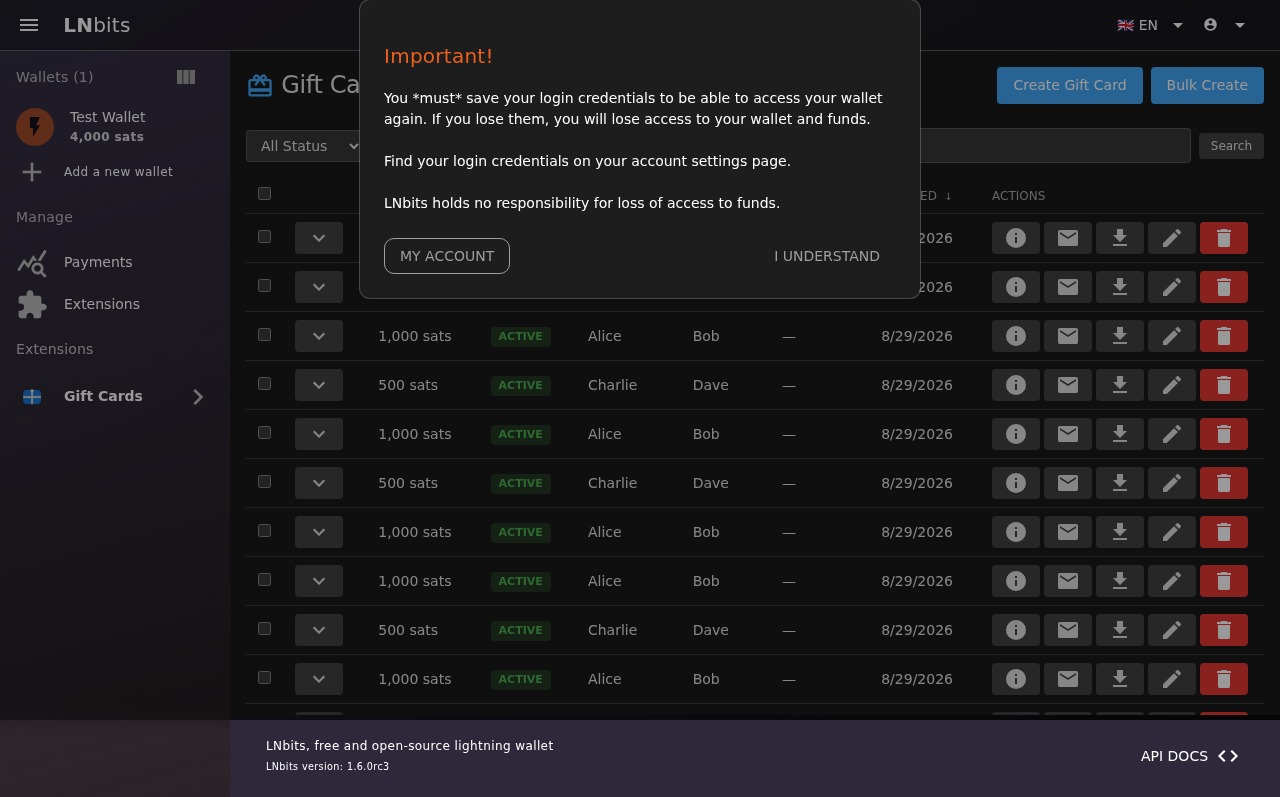
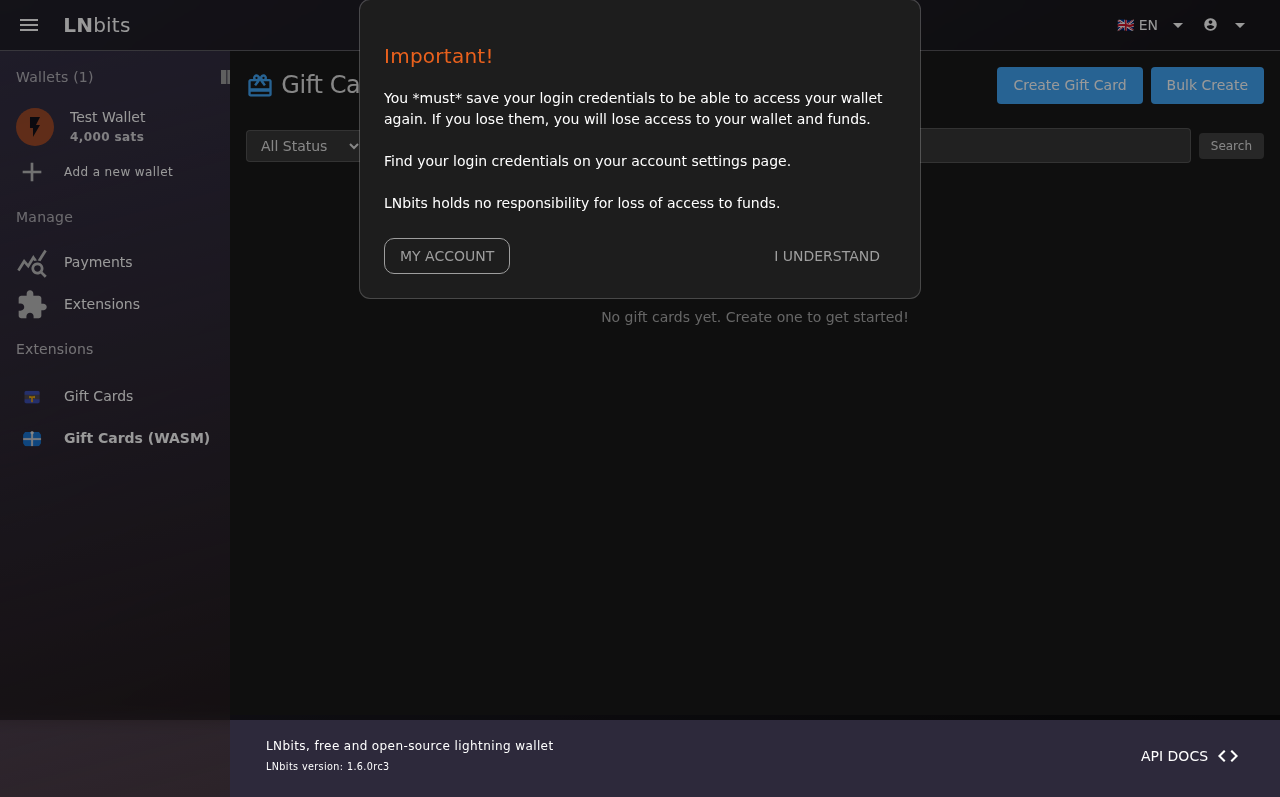
Rename WASM extension to giftcards_wasm for side-by-side comparison
Rename the WASM extension ID from "giftcards" to "giftcards_wasm" so
both the Python and WASM versions can run simultaneously in the same
LNbits instance for UI/UX and functionality comparison.

Changes:
- config.json: id → "giftcards_wasm", name → "Gift Cards (WASM)",
  ui_routes use /giftcards_wasm path
- All HTML templates: /ext-assets/giftcards/ → /ext-assets/giftcards_wasm/
- All JS files: API_BASE → /api/v1/ext/giftcards_wasm, URL paths updated
- Rust lib.rs: all /ext/giftcards/ and /api/v1/ext/giftcards/ paths
  updated to /ext/giftcards_wasm/ and /api/v1/ext/giftcards_wasm/
- Playwright tests: all URLs updated to /ext/giftcards_wasm

Also fixed Python giftcards extension:
- tasks.py: replaced removed run_interval() with asyncio.sleep loop
  to fix import error on current LNbits version

All 7 Playwright tests pass with the new extension ID.

Generated with [Devin](https://devin.ai)

diff --git a/tests/giftcards.spec.js b/tests/giftcards.spec.js
@@ -1,4 +1,4 @@
-// Playwright test for giftcards-wasm extension
+// Playwright test for giftcards_wasm extension
 const { test, expect } = require('@playwright/test');
 const fs = require('fs');
 const path = require('path');
@@ -54,12 +54,12 @@ async function loginAndGoto(page, url) {
 }
 
 test('login and navigate to gift cards', async ({ page, request }) => {
-  await loginAndGoto(page, BASE_URL + '/ext/giftcards');
+  await loginAndGoto(page, BASE_URL + '/ext/giftcards_wasm');
   await page.screenshot({ path: path.join(SCREENSHOTS_DIR, '01-giftcards-page.png'), fullPage: true });
 });
 
 test('create a gift card', async ({ page }) => {
-  await loginAndGoto(page, BASE_URL + '/ext/giftcards');
+  await loginAndGoto(page, BASE_URL + '/ext/giftcards_wasm');
 
   // Wait for the extension iframe to load
   await page.waitForTimeout(5000);
@@ -108,14 +108,14 @@ test('create a gift card', async ({ page }) => {
 });
 
 test('view gift card list', async ({ page, request }) => {
-  await loginAndGoto(page, BASE_URL + '/ext/giftcards');
+  await loginAndGoto(page, BASE_URL + '/ext/giftcards_wasm');
   await page.waitForTimeout(3000);
 
   await page.screenshot({ path: path.join(SCREENSHOTS_DIR, '05-card-list.png'), fullPage: true });
 });
 
 test('delete a gift card', async ({ page }) => {
-  await loginAndGoto(page, BASE_URL + '/ext/giftcards');
+  await loginAndGoto(page, BASE_URL + '/ext/giftcards_wasm');
   await page.waitForTimeout(5000);
 
   const extFrame = page.frames().find(f => f.url().includes('ext-frame'));
@@ -145,7 +145,7 @@ test('delete a gift card', async ({ page }) => {
 });
 
 test('view gift card detail with QR', async ({ page }) => {
-  await loginAndGoto(page, BASE_URL + '/ext/giftcards');
+  await loginAndGoto(page, BASE_URL + '/ext/giftcards_wasm');
   await page.waitForTimeout(5000);
 
   const extFrame = page.frames().find(f => f.url().includes('ext-frame'));
@@ -167,7 +167,7 @@ test('view gift card detail with QR', async ({ page }) => {
 
 test('redeem page', async ({ page, request }) => {
   const token = await getAccessToken(request);
-  const cardRes = await request.post(BASE_URL + '/api/v1/ext/giftcards/cards', {
+  const cardRes = await request.post(BASE_URL + '/api/v1/ext/giftcards_wasm/cards', {
     headers: { 'Authorization': 'Bearer ' + token, 'Content-Type': 'application/json' },
     data: { amount: 500, recipientName: 'Charlie', senderName: 'Dave', message: 'Test redeem card' },
   });
@@ -175,14 +175,14 @@ test('redeem page', async ({ page, request }) => {
   const rawToken = card.rawToken || card.tokenHash;
 
   // Navigate to redeem page (public, no auth needed)
-  await page.goto(BASE_URL + '/ext/giftcards/redeem/' + rawToken);
+  await page.goto(BASE_URL + '/ext/giftcards_wasm/redeem/' + rawToken);
   await page.waitForTimeout(5000);
 
   await page.screenshot({ path: path.join(SCREENSHOTS_DIR, '07-redeem-page.png'), fullPage: true });
 });
 
 test('claim page', async ({ page }) => {
-  await page.goto(BASE_URL + '/ext/giftcards/claim', { waitUntil: 'domcontentloaded' }).catch(() => {});
+  await page.goto(BASE_URL + '/ext/giftcards_wasm/claim', { waitUntil: 'domcontentloaded' }).catch(() => {});
   await page.waitForTimeout(5000);
 
   await page.screenshot({ path: path.join(SCREENSHOTS_DIR, '08-claim-page.png'), fullPage: true });

diff --git a/templates/index.html b/templates/index.html
@@ -4,10 +4,10 @@
 <meta charset="UTF-8">
 <meta name="viewport" content="width=device-width, initial-scale=1.0">
 <title>Gift Cards</title>
-<link rel="stylesheet" href="/ext-assets/giftcards/_lnbits/quasar.css">
-<link rel="stylesheet" href="/ext-assets/giftcards/_lnbits/material-icons.css">
-<link rel="stylesheet" href="/ext-assets/giftcards/_lnbits/bundle.min.css">
-<link rel="stylesheet" href="/ext-assets/giftcards/css/index.css">
+<link rel="stylesheet" href="/ext-assets/giftcards_wasm/_lnbits/quasar.css">
+<link rel="stylesheet" href="/ext-assets/giftcards_wasm/_lnbits/material-icons.css">
+<link rel="stylesheet" href="/ext-assets/giftcards_wasm/_lnbits/bundle.min.css">
+<link rel="stylesheet" href="/ext-assets/giftcards_wasm/css/index.css">
 </head>
 <body>
 <div id="app" class="page">
@@ -127,7 +127,7 @@
         <div class="card-preview" id="card-preview">
           <img class="template-bg" id="preview-template-img" src="" style="display:none;">
           <div class="draggable-qr" id="preview-qr">
-            <img src="/ext-assets/giftcards/image/qr_placeholder.png" style="width:100%;height:100%;object-fit:contain;">
+            <img src="/ext-assets/giftcards_wasm/image/qr_placeholder.png" style="width:100%;height:100%;object-fit:contain;">
             <div class="resize-handle" id="resize-handle"></div>
           </div>
           <div class="draggable-text" id="preview-text">
@@ -382,9 +382,9 @@
 <!-- Toast Notification -->
 <div id="toast" class="hidden"></div>
 
-<script src="/ext-assets/giftcards/js/qrcode.min.js"></script>
-<script src="/ext-assets/giftcards/js/qr-helper.js"></script>
-<script src="/ext-assets/giftcards/js/bridge.js"></script>
-<script src="/ext-assets/giftcards/js/index.js"></script>
+<script src="/ext-assets/giftcards_wasm/js/qrcode.min.js"></script>
+<script src="/ext-assets/giftcards_wasm/js/qr-helper.js"></script>
+<script src="/ext-assets/giftcards_wasm/js/bridge.js"></script>
+<script src="/ext-assets/giftcards_wasm/js/index.js"></script>
 </body>
 </html>

diff --git a/templates/redeem.html b/templates/redeem.html
@@ -4,19 +4,19 @@
 <meta charset="UTF-8">
 <meta name="viewport" content="width=device-width, initial-scale=1.0">
 <title>Redeem Gift Card</title>
-<link rel="stylesheet" href="/ext-assets/giftcards/_lnbits/quasar.css">
-<link rel="stylesheet" href="/ext-assets/giftcards/_lnbits/material-icons.css">
-<link rel="stylesheet" href="/ext-assets/giftcards/_lnbits/bundle.min.css">
-<link rel="stylesheet" href="/ext-assets/giftcards/css/redeem.css">
+<link rel="stylesheet" href="/ext-assets/giftcards_wasm/_lnbits/quasar.css">
+<link rel="stylesheet" href="/ext-assets/giftcards_wasm/_lnbits/material-icons.css">
+<link rel="stylesheet" href="/ext-assets/giftcards_wasm/_lnbits/bundle.min.css">
+<link rel="stylesheet" href="/ext-assets/giftcards_wasm/css/redeem.css">
 </head>
 <body>
 <div class="card-container" id="redeem-container">
   <div class="loading" id="redeem-loading">Loading gift card...</div>
 </div>
 
-<script src="/ext-assets/giftcards/js/qrcode.min.js"></script>
-<script src="/ext-assets/giftcards/js/qr-helper.js"></script>
-<script src="/ext-assets/giftcards/js/bridge.js"></script>
-<script src="/ext-assets/giftcards/js/redeem.js"></script>
+<script src="/ext-assets/giftcards_wasm/js/qrcode.min.js"></script>
+<script src="/ext-assets/giftcards_wasm/js/qr-helper.js"></script>
+<script src="/ext-assets/giftcards_wasm/js/bridge.js"></script>
+<script src="/ext-assets/giftcards_wasm/js/redeem.js"></script>
 </body>
 </html>

diff --git a/static/js/index.js b/static/js/index.js
@@ -95,7 +95,7 @@
   }
 
   // --- API via bridge ---
-  var API_BASE = '/api/v1/ext/giftcards';
+  var API_BASE = '/api/v1/ext/giftcards_wasm';
   function apiCall(method, path, body) {
     var fullPath = API_BASE + path;
     return window.LNbitsBridge.connect().then(function() {
@@ -343,7 +343,7 @@
         html += '<div>Delivery: <span class="status-badge ' + getDeliveryColor(emailStatus) + '">' + escapeHtml(emailStatus) + '</span></div>';
         html += '</div>';
         // QR code
-        var redemptionUrl = card.redemptionUrl || card.redemption_url || (window.location.origin + '/ext/giftcards/redeem/' + (card.rawToken || card.raw_token || ''));
+        var redemptionUrl = card.redemptionUrl || card.redemption_url || (window.location.origin + '/ext/giftcards_wasm/redeem/' + (card.rawToken || card.raw_token || ''));
         currentDetailRedemptionUrl = redemptionUrl;
         if (card.rawToken || card.raw_token) {
           html += '<div class="qr-container"><canvas id="detail-qr"></canvas></div>';
@@ -886,7 +886,7 @@
         img.src = design.customTemplateData;
         img.style.display = '';
       } else if (design.template !== 'custom') {
-        img.src = '/ext-assets/giftcards/image/template_' + design.template + '.png';
+        img.src = '/ext-assets/giftcards_wasm/image/template_' + design.template + '.png';
         img.style.display = '';
       } else {
         img.style.display = 'none';

diff --git a/templates/claim.html b/templates/claim.html
@@ -4,10 +4,10 @@
 <meta charset="UTF-8">
 <meta name="viewport" content="width=device-width, initial-scale=1.0">
 <title>Claim Gift Cards</title>
-<link rel="stylesheet" href="/ext-assets/giftcards/_lnbits/quasar.css">
-<link rel="stylesheet" href="/ext-assets/giftcards/_lnbits/material-icons.css">
-<link rel="stylesheet" href="/ext-assets/giftcards/_lnbits/bundle.min.css">
-<link rel="stylesheet" href="/ext-assets/giftcards/css/claim.css">
+<link rel="stylesheet" href="/ext-assets/giftcards_wasm/_lnbits/quasar.css">
+<link rel="stylesheet" href="/ext-assets/giftcards_wasm/_lnbits/material-icons.css">
+<link rel="stylesheet" href="/ext-assets/giftcards_wasm/_lnbits/bundle.min.css">
+<link rel="stylesheet" href="/ext-assets/giftcards_wasm/css/claim.css">
 </head>
 <body>
 <div class="card-container" id="claim-container">
@@ -27,7 +27,7 @@
   <div id="claim-error" class="error hidden"></div>
 </div>
 
-<script src="/ext-assets/giftcards/js/bridge.js"></script>
-<script src="/ext-assets/giftcards/js/claim.js"></script>
+<script src="/ext-assets/giftcards_wasm/js/bridge.js"></script>
+<script src="/ext-assets/giftcards_wasm/js/claim.js"></script>
 </body>
 </html>

diff --git a/static/js/claim.js b/static/js/claim.js
@@ -13,7 +13,7 @@
     });
   }
 
-  var API_BASE = '/api/v1/ext/giftcards';
+  var API_BASE = '/api/v1/ext/giftcards_wasm';
   function apiCall(method, path, body) {
     var fullPath = API_BASE + path;
     return window.LNbitsBridge.connect().then(function() {
@@ -21,7 +21,7 @@
     });
   }
 
-  // Check if we have a magic token in the URL: /ext/giftcards/claim/{token}
+  // Check if we have a magic token in the URL: /ext/giftcards_wasm/claim/{token}
   var pathParts = window.location.pathname.split('/');
   var magicToken = '';
   for (var i = 0; i < pathParts.length; i++) {
@@ -100,7 +100,7 @@
     var list = $('claim-cards-list');
     var html = '';
     cards.forEach(function(card) {
-      var redeemUrl = '/ext/giftcards/redeem/' + (card.rawToken || card.tokenHash || '');
+      var redeemUrl = '/ext/giftcards_wasm/redeem/' + (card.rawToken || card.tokenHash || '');
       html += '<div class="card-item">';
       html += '<div>';
       html += '<div class="amount">' + (card.amount || 0).toLocaleString() + ' sats</div>';

diff --git a/static/js/redeem.js b/static/js/redeem.js
@@ -11,7 +11,7 @@
     });
   }
 
-  var API_BASE = '/api/v1/ext/giftcards';
+  var API_BASE = '/api/v1/ext/giftcards_wasm';
   function apiCall(method, path, body) {
     var fullPath = API_BASE + path;
     return window.LNbitsBridge.connect().then(function() {
@@ -19,7 +19,7 @@
     });
   }
 
-  // Extract token from URL: /ext/giftcards/redeem/{token}
+  // Extract token from URL: /ext/giftcards_wasm/redeem/{token}
   var pathParts = window.location.pathname.split('/');
   var token = '';
   for (var i = 0; i < pathParts.length; i++) {

diff --git a/wasm/src/lib.rs b/wasm/src/lib.rs
@@ -430,8 +430,8 @@ impl Guest for Component {
         let (card_id, raw_token, token_hash) = generate_tokens();
         let now = h_now();
 
-        let redemption_url = format!("{}/ext/giftcards/redeem/{}", base_url, raw_token);
-        let lnurl_url = format!("{}/api/v1/ext/giftcards/lnurl/{}", base_url, token_hash);
+        let redemption_url = format!("{}/ext/giftcards_wasm/redeem/{}", base_url, raw_token);
+        let lnurl_url = format!("{}/api/v1/ext/giftcards_wasm/lnurl/{}", base_url, token_hash);
 
         let mut card = json!({
             "id": token_hash,
@@ -581,7 +581,7 @@ impl Guest for Component {
         let redemption_url = if include_link {
             let base_url = card.get("baseUrl").and_then(|v| v.as_str()).unwrap_or("");
             let raw_token = card.get("rawToken").and_then(|v| v.as_str()).unwrap_or("");
-            format!("{}/ext/giftcards/redeem/{}", base_url, raw_token)
+            format!("{}/ext/giftcards_wasm/redeem/{}", base_url, raw_token)
         } else {
             String::new()
         };
@@ -901,7 +901,7 @@ impl Guest for Component {
         let amount = card.get("amount").and_then(|v| v.as_u64()).unwrap_or(0);
         let sender = card.get("senderName").and_then(|v| v.as_str()).unwrap_or("Anonymous");
 
-        let redemption_url = format!("{}/ext/giftcards/redeem/{}", base_url, raw_token);
+        let redemption_url = format!("{}/ext/giftcards_wasm/redeem/{}", base_url, raw_token);
         let email_body = if body.is_empty() {
             format!(
                 "You received a gift card worth {} sats from {}!\n\nRedeem it here: {}",
@@ -1012,7 +1012,7 @@ impl Guest for Component {
         let base_url = card.get("baseUrl").and_then(|v| v.as_str()).unwrap_or("");
         let card_id = card.get("cardId").and_then(|v| v.as_str()).unwrap_or("");
 
-        let callback_url = format!("{}/api/v1/ext/giftcards/lnurl/callback", base_url);
+        let callback_url = format!("{}/api/v1/ext/giftcards_wasm/lnurl/callback", base_url);
         // Encode the callback URL into a bech32 LNURL string (uppercase, HRP "LNURL").
         let lnurl = lnurl_encode(&callback_url);
 
@@ -1185,7 +1185,7 @@ impl Guest for Component {
                 let card = pending.first().unwrap();
                 let base_url = card.get("baseUrl").and_then(|v| v.as_str()).unwrap_or("");
                 let sender = card.get("senderName").and_then(|v| v.as_str()).unwrap_or("Anonymous");
-                let magic_link_url = format!("{}/ext/giftcards/claim/{}", base_url, magic_token);
+                let magic_link_url = format!("{}/ext/giftcards_wasm/claim/{}", base_url, magic_token);
 
                 let api_key = req.get("emailApiKey").and_then(|k| k.as_str()).unwrap_or("");
                 let email_body = format!(
@@ -1304,7 +1304,7 @@ impl Guest for Component {
                     "senderName": c.get("senderName").and_then(|v| v.as_str()).unwrap_or(""),
                     "recipientName": c.get("recipientName").and_then(|v| v.as_str()).unwrap_or(""),
                     "message": c.get("message").and_then(|v| v.as_str()).unwrap_or(""),
-                    "redemptionUrl": format!("{}/ext/giftcards/redeem/{}", base_url, raw_token),
+                    "redemptionUrl": format!("{}/ext/giftcards_wasm/redeem/{}", base_url, raw_token),
                 }))
             })
             .collect();
